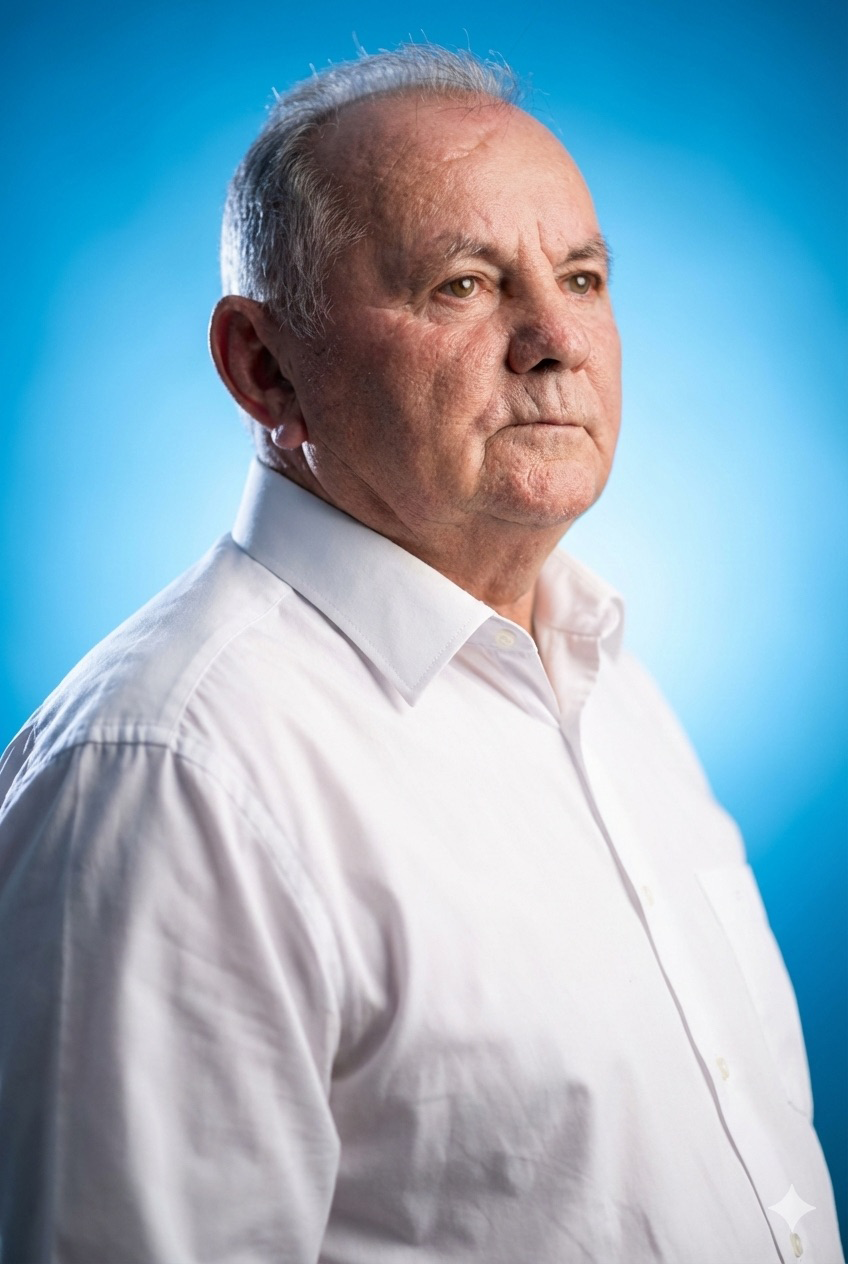
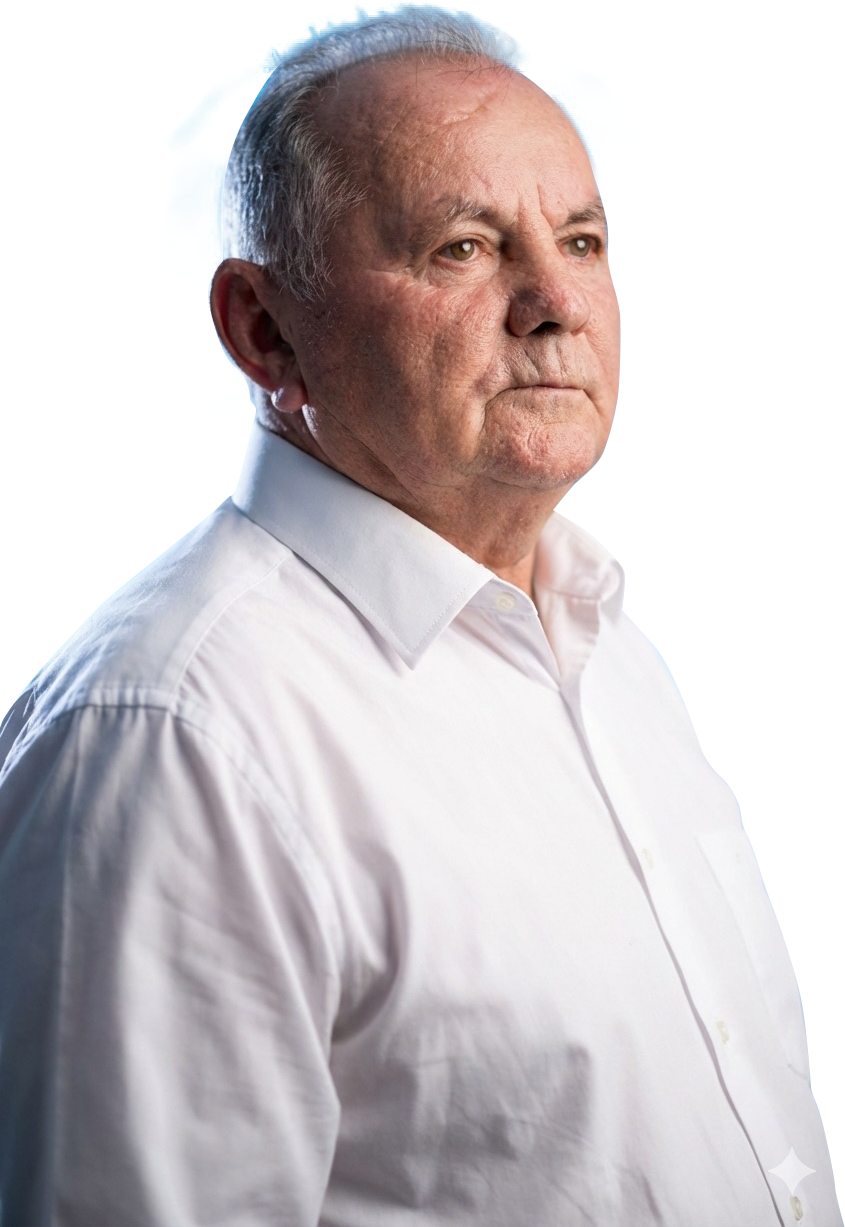
.

diff --git a/SITE-ROBERTO-VEREADOR/src/components/sections/Feed.tsx b/SITE-ROBERTO-VEREADOR/src/components/sections/Feed.tsx
@@ -14,8 +14,35 @@ import { FEED_POSTS, SOCIAL_LINKS } from "../../data";
 import { useQuery } from "@tanstack/react-query";
 import { API_BASE_URL, SHOULD_FETCH_API } from "../../config";
 
-// ─── Tipos ────────────────────────────────────────────────────────────────────
+// Domínio de produção — usado para resolver imagens relativas da API
+const API_ORIGIN = "https://painel.robertinhoce.com.br";
 
+// ─── Tipos (estrutura real da API) ───────────────────────────────────────────
+
+/** Formato que a API realmente devolve */
+interface ApiPostRaw {
+  id: number;
+  slug: string;
+  legenda: string | null;
+  resumo: string | null;
+  tags: string[];
+  hashtags: string[];
+  data: string;
+  imagem: { url: string; alt: string } | string | null;
+  url: string | null;          // link do Instagram
+}
+
+interface ApiListResponseRaw {
+  data: ApiPostRaw[];
+  meta: {
+    current_page: number;
+    last_page: number;
+    total: number;
+    per_page: number;
+  };
+}
+
+/** Formato normalizado usado internamente pelo componente */
 interface ApiPost {
   id: number;
   slug: string;
@@ -23,18 +50,31 @@ interface ApiPost {
   legenda: string | null;
   categoria: string;
   imagem: string | null;
-  video: string | null;       // URL de vídeo (mp4 / embed) — pode ser nulo
+  video: string | null;
   url_instagram: string | null;
   created_at: string;
 }
 
-interface ApiListResponse {
-  data: ApiPost[];
-  meta: {
-    current_page: number;
-    last_page: number;
-    total: number;
-    per_page: number;
+/** Normaliza um post cru da API para o formato interno */
+function normalizePost(raw: ApiPostRaw): ApiPost {
+  // imagem pode ser objeto {url,alt} ou string direta
+  let imgUrl: string | null = null;
+  if (raw.imagem && typeof raw.imagem === "object" && "url" in raw.imagem) {
+    imgUrl = (raw.imagem as { url: string; alt: string }).url ?? null;
+  } else if (typeof raw.imagem === "string") {
+    imgUrl = raw.imagem;
+  }
+
+  return {
+    id: raw.id,
+    slug: raw.slug,
+    titulo: raw.legenda ?? raw.resumo ?? `Post ${raw.id}`,
+    legenda: raw.resumo ?? raw.legenda ?? null,
+    categoria: raw.tags?.[0] ?? "Instagram",
+    imagem: imgUrl,
+    video: null,
+    url_instagram: raw.url ?? null,
+    created_at: raw.data ?? "",
   };
 }
 
@@ -54,13 +94,35 @@ const FALLBACK_POSTS: ApiPost[] = FEED_POSTS.map((p, i) => ({
 
 // ─── Fetch ────────────────────────────────────────────────────────────────────
 
+/** Tipo normalizado retornado pelo fetch (após mapear os posts) */
+interface ApiListResponse {
+  data: ApiPost[];
+  meta: ApiListResponseRaw["meta"];
+}
+
 async function fetchInstagram(page: number): Promise<ApiListResponse> {
   const res = await fetch(`${API_BASE_URL}/instagram?pagina=${page}`);
   if (!res.ok) throw new Error(`HTTP ${res.status}`);
-  return res.json() as Promise<ApiListResponse>;
+  const raw = await res.json() as ApiListResponseRaw;
+  return {
+    data: raw.data.map(normalizePost),
+    meta: raw.meta,
+  };
 }
 
 // ─── Helpers ──────────────────────────────────────────────────────────────────
+
+/**
+ * Resolve a URL de uma imagem vinda da API.
+ * - Se já for uma URL absoluta (começa com http/https), retorna como está.
+ * - Se for um caminho relativo (ex: /storage/...), prefixamos com o domínio da API.
+ */
+function resolveImgUrl(url: string | null | unknown): string | null {
+  if (!url || typeof url !== "string") return null;
+  if (url.startsWith("http://") || url.startsWith("https://")) return url;
+  // Remove proxy prefix se presente, e prefixamos com o domínio real
+  return `${API_ORIGIN}${url.startsWith("/") ? url : `/${url}`}`;
+}
 
 /** Detecta se a URL é um embed do YouTube/Vimeo ou um arquivo de vídeo direto */
 function isEmbedUrl(url: string) {
@@ -90,9 +152,11 @@ function PostModal({ post, onClose }: { post: ApiPost; onClose: () => void }) {
     };
   }, [onClose]);
 
-  const hasVideo = Boolean(post.video);
-  const hasImage = Boolean(post.imagem);
-  const isEmbed  = hasVideo && isEmbedUrl(post.video!);
+  const resolvedImg = resolveImgUrl(post.imagem);
+  const resolvedVideo = resolveImgUrl(post.video);
+  const hasVideo = Boolean(resolvedVideo);
+  const hasImage = Boolean(resolvedImg);
+  const isEmbed  = hasVideo && isEmbedUrl(resolvedVideo!);
 
   return (
     /* ── Backdrop ── */
@@ -151,7 +215,7 @@ function PostModal({ post, onClose }: { post: ApiPost; onClose: () => void }) {
           <div style={{ position: "relative", width: "100%", aspectRatio: "16/9", background: "#000" }}>
             {isEmbed ? (
               <iframe
-                src={toEmbedUrl(post.video!)}
+                src={toEmbedUrl(resolvedVideo!)}
                 title={post.titulo}
                 allow="autoplay; fullscreen; picture-in-picture"
                 allowFullScreen
@@ -159,7 +223,7 @@ function PostModal({ post, onClose }: { post: ApiPost; onClose: () => void }) {
               />
             ) : (
               <video
-                src={post.video!}
+                src={resolvedVideo!}
                 controls
                 autoPlay
                 playsInline
@@ -168,17 +232,21 @@ function PostModal({ post, onClose }: { post: ApiPost; onClose: () => void }) {
             )}
           </div>
         ) : hasImage ? (
-          <div style={{ position: "relative", width: "100%", aspectRatio: "1/1", overflow: "hidden", maxHeight: 480 }}>
+          <div style={{
+            position: "relative", width: "100%",
+            background: "#111",
+            display: "flex", alignItems: "center", justifyContent: "center",
+          }}>
             <img
-              src={post.imagem!}
+              src={resolvedImg!}
               alt={post.titulo}
-              style={{ width: "100%", height: "100%", objectFit: "cover", display: "block" }}
+              style={{
+                width: "100%",
+                maxHeight: "70vh",
+                objectFit: "contain",
+                display: "block",
+              }}
             />
-            {/* Gradiente inferior */}
-            <div style={{
-              position: "absolute", bottom: 0, left: 0, right: 0, height: "50%",
-              background: "linear-gradient(to top, rgba(5,20,11,0.72) 0%, transparent 100%)",
-            }} />
             {/* Badge categoria sobre a imagem */}
             <span style={{
               position: "absolute", top: "1.1rem", left: "1.1rem",
@@ -309,6 +377,7 @@ function PostModal({ post, onClose }: { post: ApiPost; onClose: () => void }) {
 // ─── Card do feed ─────────────────────────────────────────────────────────────
 
 function FeedCard({ post, onOpen }: { post: ApiPost; onOpen: (p: ApiPost) => void }) {
+  const resolvedImg = resolveImgUrl(post.imagem);
   const hasVideo = Boolean(post.video);
 
   return (
@@ -330,21 +399,29 @@ function FeedCard({ post, onOpen }: { post: ApiPost; onOpen: (p: ApiPost) => voi
         textAlign: "left",
       }}
     >
-      {/* Imagem/vídeo de fundo */}
-      {post.imagem && (
-        <img
-          src={post.imagem}
-          alt=""
-          loading="lazy"
-          aria-hidden="true"
-          className="feed-bg-img"
+      {/* Imagem de fundo — cover para preencher o card sem barras */}
+      {resolvedImg && (
+        <div
           style={{
             position: "absolute", inset: 0,
-            width: "100%", height: "100%",
-            objectFit: "cover", display: "block",
-            transition: "transform 0.5s ease",
+            background: "#111",
           }}
-        />
+        >
+          <img
+            src={resolvedImg}
+            alt=""
+            loading="lazy"
+            aria-hidden="true"
+            className="feed-bg-img"
+            style={{
+              width: "100%", height: "100%",
+              objectFit: "cover",
+              objectPosition: "center",
+              display: "block",
+              transition: "transform 0.5s ease",
+            }}
+          />
+        </div>
       )}
 
       {/* Gradiente */}

diff --git a/SITE-ROBERTO-VEREADOR/src/components/sections/Contato.tsx b/SITE-ROBERTO-VEREADOR/src/components/sections/Contato.tsx
@@ -14,6 +14,18 @@ import { CONTATO_INFO, SOCIAL_LINKS } from "../../data";
 import { useRecaptchaV3 } from "../../hooks/useRecaptchaV3";
 import { FORMSPARK_FORM_ID } from "../../config";
 
+// Botão WhatsApp
+const WHATSAPP_NUMBER = "5588992391071";
+
+function WhatsAppIcon({ size = 18 }: { size?: number }) {
+  return (
+    <svg width={size} height={size} viewBox="0 0 24 24" fill="currentColor" aria-hidden="true">
+      <path d="M17.472 14.382c-.297-.149-1.758-.867-2.03-.967-.273-.099-.471-.148-.67.15-.197.297-.767.966-.94 1.164-.173.199-.347.223-.644.075-.297-.15-1.255-.463-2.39-1.475-.883-.788-1.48-1.761-1.653-2.059-.173-.297-.018-.458.13-.606.134-.133.298-.347.446-.52.149-.174.198-.298.298-.497.099-.198.05-.371-.025-.52-.075-.149-.669-1.612-.916-2.207-.242-.579-.487-.5-.669-.51-.173-.008-.371-.01-.57-.01-.198 0-.52.074-.792.372-.272.297-1.04 1.016-1.04 2.479 0 1.462 1.065 2.875 1.213 3.074.149.198 2.096 3.2 5.077 4.487.709.306 1.262.489 1.694.625.712.227 1.36.195 1.871.118.571-.085 1.758-.719 2.006-1.413.248-.694.248-1.289.173-1.413-.074-.124-.272-.198-.57-.347z"/>
+      <path d="M12 0C5.373 0 0 5.373 0 12c0 2.136.558 4.14 1.533 5.879L.057 24l6.304-1.654A11.938 11.938 0 0 0 12 24c6.627 0 12-5.373 12-12S18.627 0 12 0zm0 21.894a9.875 9.875 0 0 1-5.031-1.377l-.361-.214-3.741.981.999-3.648-.235-.374A9.86 9.86 0 0 1 2.106 12C2.106 6.56 6.56 2.106 12 2.106S21.894 6.56 21.894 12 17.44 21.894 12 21.894z"/>
+    </svg>
+  );
+}
+
 // Ícones sem correspondência no lucide-react
 function TikTokIcon({ size = 18 }: { size?: number }) {
   return (
@@ -176,6 +188,25 @@ export function Contato() {
                 Siga nas redes sociais
               </p>
               <div style={{ display: "flex", flexWrap: "wrap", gap: "0.6rem" }}>
+
+              {/* WhatsApp */}
+                <a
+                  href={`https://wa.me/${WHATSAPP_NUMBER}?text=Olá%2C%20gostaria%20de%20entrar%20em%20contato%20com%20o%20gabinete%20do%20Vereador%20Robertinho.`}
+                  target="_blank"
+                  rel="noreferrer noopener"
+                  aria-label="WhatsApp do Gabinete"
+                  style={{
+                    display: "inline-flex", alignItems: "center", gap: "0.5rem",
+                    padding: "0.55rem 1.1rem", borderRadius: 9999,
+                    background: "#25D366",
+                    color: "#fff", fontWeight: 600, fontSize: "0.82rem",
+                    textDecoration: "none", transition: "filter 0.2s, transform 0.15s",
+                  }}
+                  onMouseEnter={e => { e.currentTarget.style.filter = "brightness(1.1)"; e.currentTarget.style.transform = "translateY(-1px)"; }}
+                  onMouseLeave={e => { e.currentTarget.style.filter = "brightness(1)"; e.currentTarget.style.transform = "translateY(0)"; }}
+                >
+                  <WhatsAppIcon size={14} /> WhatsApp
+                </a>
 
                 {/* Instagram */}
                 <a

diff --git a/SITE-ROBERTO-VEREADOR/src/components/layout/Header.tsx b/SITE-ROBERTO-VEREADOR/src/components/layout/Header.tsx
@@ -55,7 +55,7 @@ export function Header() {
             })}
           </nav>
 
-          <a href={isHome ? "#contato" : "/#contato"} className="hdr-desktop hdr-cta" style={{
+          <a href="mailto:contato@robertinhoce.com.br" className="hdr-desktop hdr-cta" style={{
             display: "flex", alignItems: "center", gap: "0.4rem",
             fontSize: "0.875rem", fontWeight: 600,
             background: "var(--gradient-accent)", color: "var(--teal-deep)",
@@ -116,7 +116,7 @@ export function Header() {
                 );
               })}
             </nav>
-            <a href={isHome ? "#contato" : "/#contato"} onClick={() => setOpen(false)} style={{
+            <a href="mailto:contato@robertinhoce.com.br" onClick={() => setOpen(false)} style={{
               marginTop: "auto",
               display: "flex", alignItems: "center", justifyContent: "center", gap: "0.5rem",
               background: "var(--gradient-accent)", color: "var(--teal-deep)",

diff --git a/SITE-ROBERTO-VEREADOR/src/data.ts b/SITE-ROBERTO-VEREADOR/src/data.ts
@@ -136,7 +136,7 @@ export const TRANSPARENCIA_CARDS = [
 ];
 
 export const CONTATO_INFO = [
-  { t: "Câmara Municipal de Martinópole", d: "Praça Principal, s/nº — Centro, Martinópole - CE" },
+  { t: "Câmara Municipal de Martinópole", d: "Avenida Francisco Ferro, Nº 42 — Centro (Gabinete da Presidência)" },
   { t: "E-mail Institucional", d: "contato@robertinhoce.com.br" },
   { t: "Redes Sociais Oficiais", d: "@robertinhoce (Instagram, Facebook e TikTok)" },
   { t: "Atendimento ao Cidadão", d: "Segunda a sexta-feira, durante o expediente da Câmara" },
